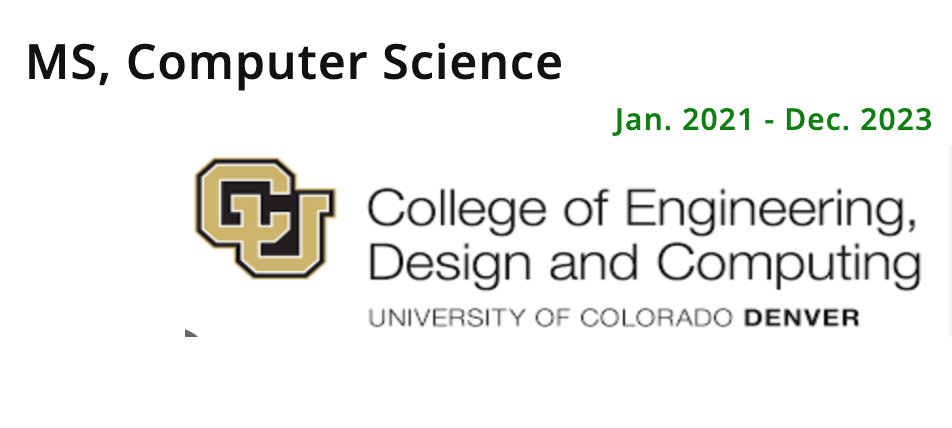
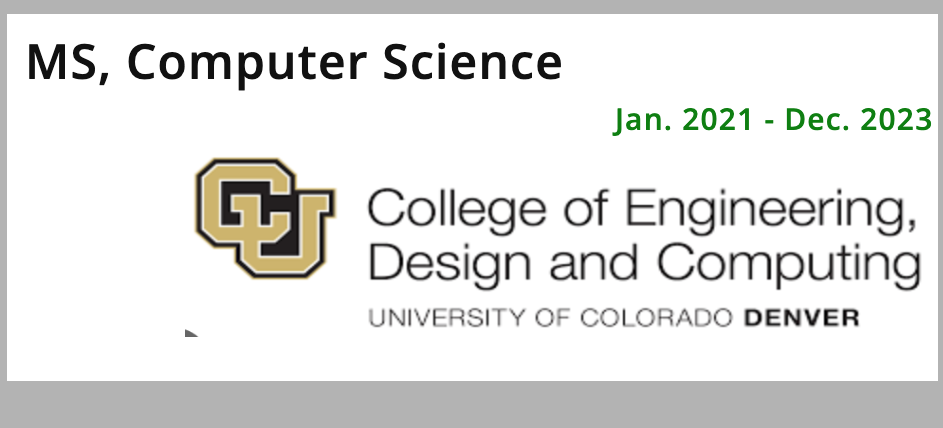
add styling

Changed region(s): [[0.0, 0.0, 1.0, 1.0], [0.1845, 0.7593, 0.2153, 0.7897]]

diff --git a/index.html b/index.html
@@ -421,18 +421,20 @@
              
                 <div class="col-md-4">
                     <a href="#" class="portfolio-card">
-                        <!-- <img src="assets/imgs/folio-cu.png" class="cu-img" alt="cu Pic"> -->
-                        <img class="portfolio-card-img" src="assets/imgs/cu3.png" class="img-responsive rounded"
+                            <!-- <img class="portfolio-card-img" src="assets/imgs/cu2-coped.png" class="img-responsive rounded"
+                            alt="cricket ground"> -->
+                        <img class="portfolio-card-img" src="assets/imgs/cu9.png" class="img-responsive rounded"
                             alt="cricket ground">
                         <span class="portfolio-card-overlay">
                             <span class="portfolio-card-caption">
                                 <!-- <h4> MS, Computr Science</h4>
                                 <p class="font-weight-normal"> Jan. 2021 - Dec. 2023</p> -->
-                                <span class="eductionTet">
-                                Software Engineering, System Design, Cyber Security, Networking
+                                <div class="eductionText">
+                                Software Engineering, System Design, Cyber Security, Networking, Data Structures and
+                                Algorithms
                                 <p> C++, Python</p>
                                 At least 8 group projects
-                            </span>
+                                </div>
                              
                             </span>
                         </span>
@@ -448,11 +450,11 @@
                                 <!-- <h4>Software Engineering Certification</h4>
                                     <p class="font-weight-normal"> Jan. 2021 - Dec. 2022</p> -->
                                     <!-- <p>Jan. 2021 - Dec. 2022</p> -->
-                                    <span class="eductionTet">
+                                    <div class="eductionText">
                                    Fullstack Web Developement, Porgramming, Deployability, Data Structures & Algorithms
                                     <p>OOP, JS, Python, SQL, PostgreSQL, DSA </p>
                                     Two capstone projects
-                                    </span>
+                                    </div>
                             </span>
                         </span>
                     </a>
@@ -465,11 +467,11 @@
                             <span class="portfolio-card-caption">
                                 <!-- <h4>BS, Mathematics and Computer Science</h4>
                                 <p class="font-weight-normal">Aug. 2016 - Dec. 2019</p> -->
-                                <span class="eductionTet">
+                                <div class="eductionText">
                                 Application Developement, Porgramming, DSA, Functional Programming, Applied Maths
                                 <p>OOP, Java, Python, SQL, Elixir, Scala, C# </p>
                                 Two capstone group projects
-                                </span>
+                                </div>
                             </span>
                         </span>
                     </a>
@@ -482,7 +484,7 @@
     <!-- footer -->
     <div class="container">
         <footer class="footer">
-                nabin niroula - Fullstack Software Developer   
+            nabin niroula - Fullstack Software Developer   
         </footer>
     </div>
 

diff --git a/app.css b/app.css
@@ -75,37 +75,34 @@
 }
 
 .cu-img{
-    margin-left: 5em;
+    /* margin-left: 5em;
     margin-right: 5em;
-    /* min-height: 2em;
-    max-height: 4em;  */
     min-height: 4em;
     max-height: 6em;
-    /* width: 26em; */
     width: 24em;
-    margin-top: -1rem;
+    margin-top: -1rem; */
 } 
 
 .msu-img{
     /* margin-left: 5em;
     min-height: 2em; */
-    max-height: 4em;
+    /* max-height: 4em; */
     /* margin-right: 10.5rem;   */
 
-    min-height: 4em;
+    /* min-height: 4em; */
     /* max-height: 6em; */
-    max-height: 8em;
+    /* max-height: 8em;
     margin-left: 5em;
-    width: 15em;
+    width: 15em; */
 }
 .springboard-img{
-    margin-left: 4em;
+    /* margin-left: 4em; */
     /* min-height: 2em;
     max-height: 4em; */
-    margin-right: 3.5rem;
-    min-height: 4em;
+    /* margin-right: 3.5rem;
+    min-height: 4em; */
     /* max-height: 6em; */
-    max-height: 6em;
+    /* max-height: 6em; */
 }
 
 #educationButton{
@@ -134,9 +131,12 @@
     font-weight: 600;
     font-size: x-large;
 }
-.eductionTet{
+.eductionText{
     /* color:crimson; */
     font-weight: 700;
     color:chocolate;
     background-color:gold
+}
+.portfolio-card-img .hover{
+    background-color: red;
 }

diff --git a/assets/css/meyawo.css b/assets/css/meyawo.css
@@ -11200,6 +11200,7 @@ p {
 
 .portfolio-card .portfolio-card-img {
   width: 100%;
+  height: 15em;
 }
 
 .portfolio-card .portfolio-card-overlay {
